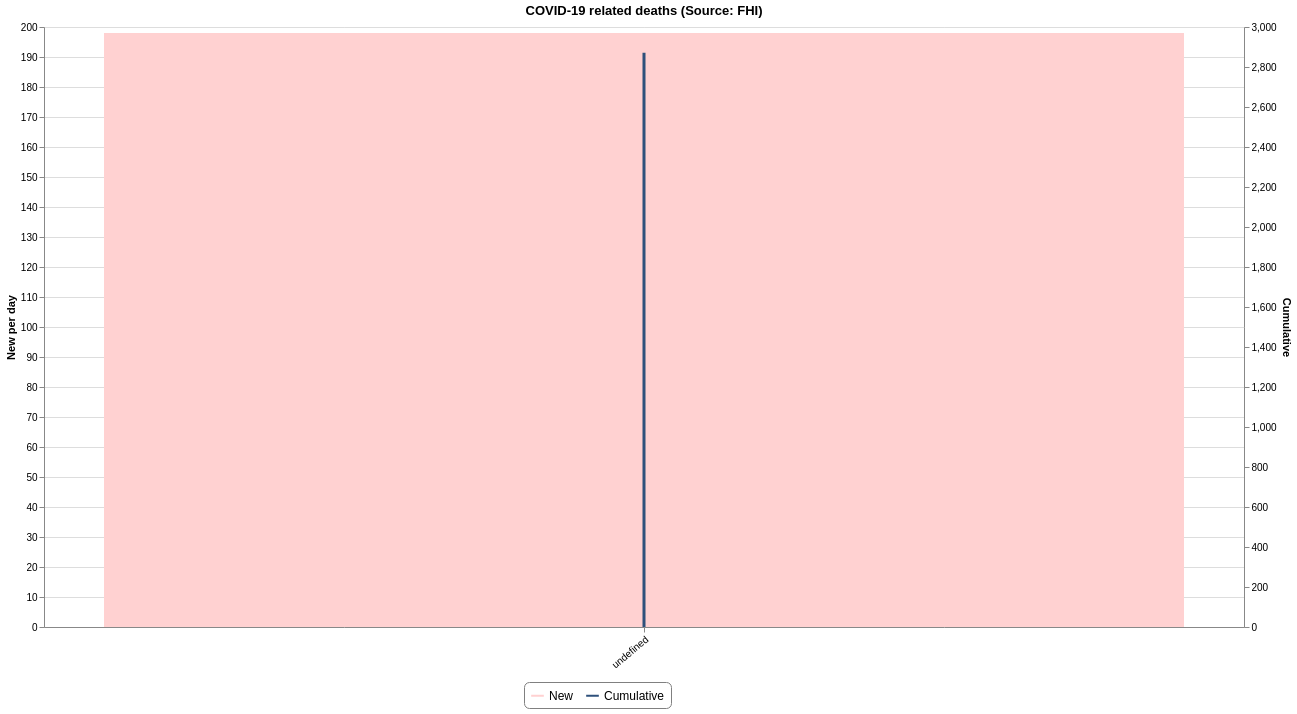
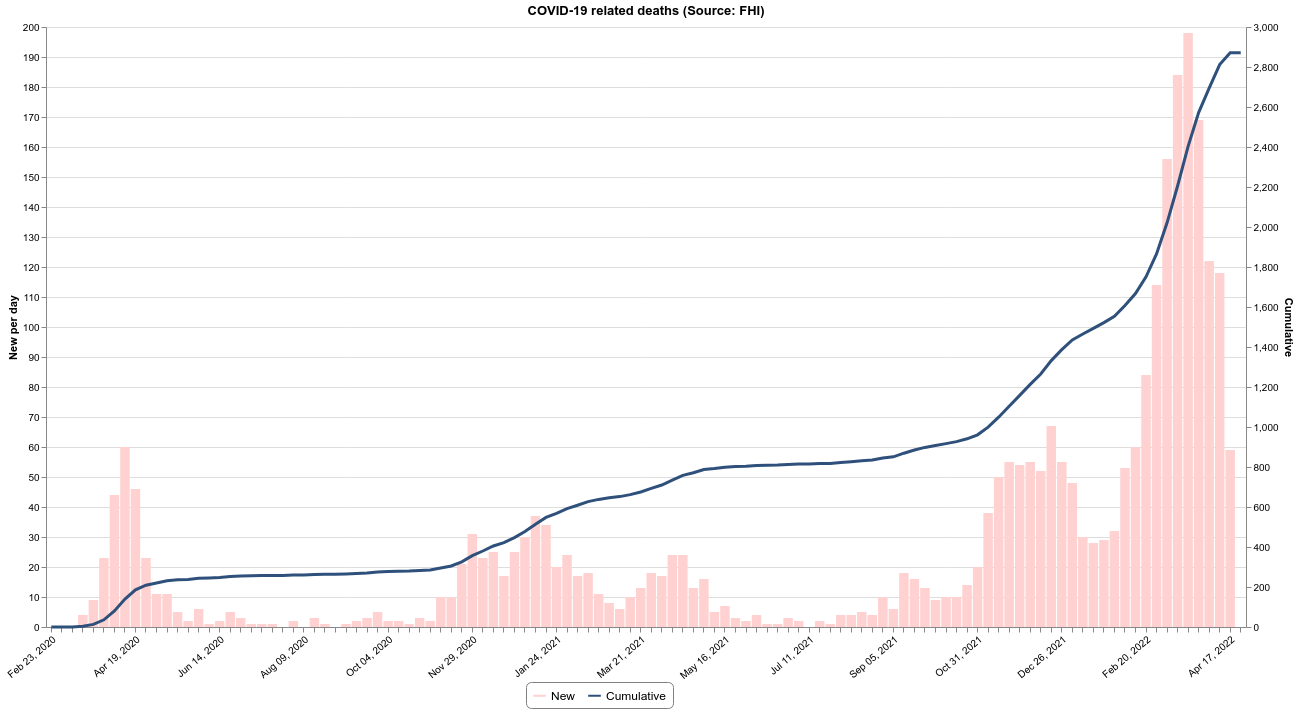
Fix deaths graph

diff --git a/src/utils/graphs.py b/src/utils/graphs.py
@@ -177,7 +177,7 @@ def dead():
     df["category"] = df["category"].replace(rename)
 
     base = alt.Chart(df, title="COVID-19 related deaths (Source: FHI)").encode(
-        alt.X("yearweek(date):O", axis=alt.Axis(title=None, labelAngle=-40))
+        alt.X("yearmonthdate(date):O", axis=alt.Axis(title=None, labelAngle=-40))
     )
 
     bar = (
